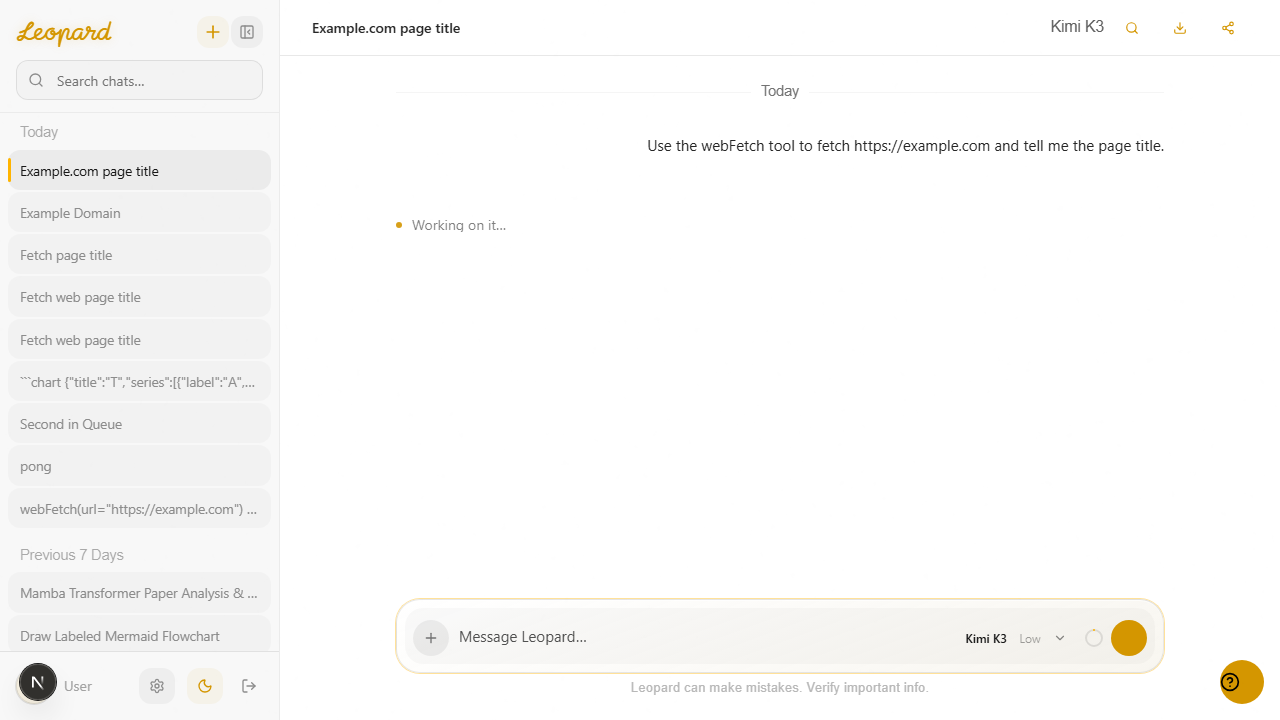
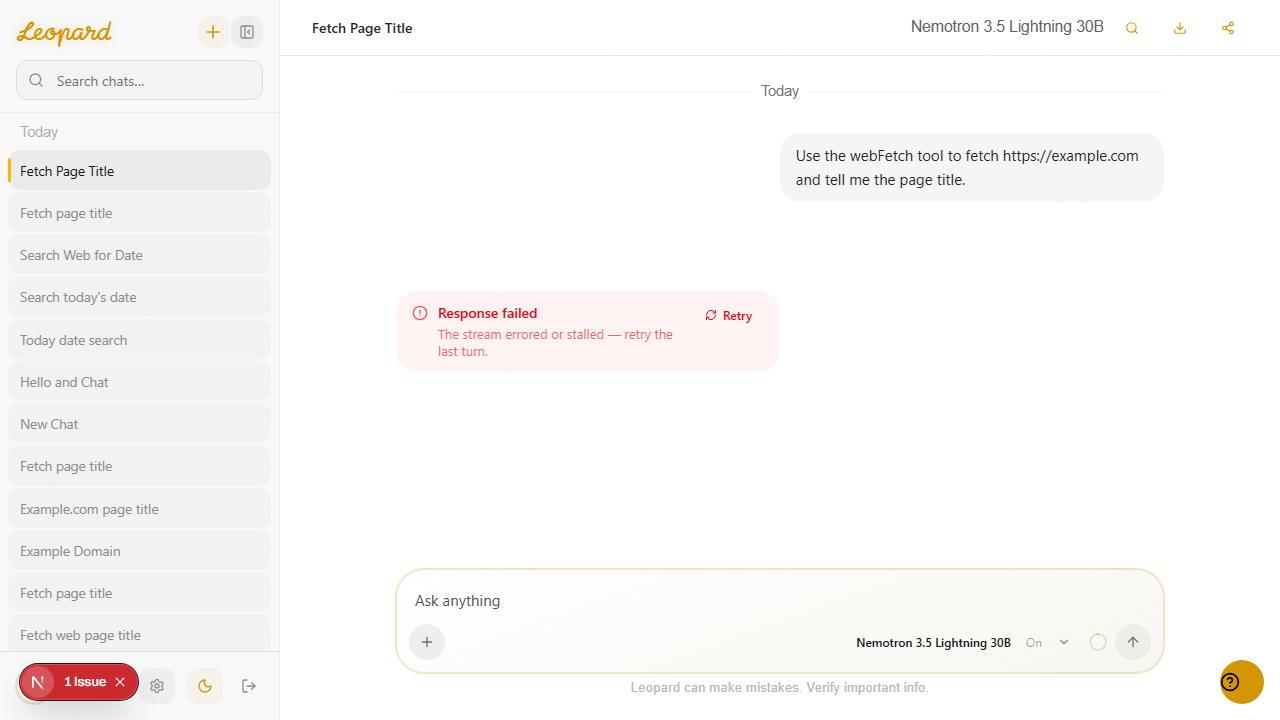
feat(chat): ChatGPT-style composer + suggestion rows; stall watchdog two-phase
- Composer: two-row layout (textarea top, + left / model+context+send right), 28px bar radius
- Empty state: icon suggestion rows under centered composer
- server-generation: stall watchdog two-phase (45s pre-first-chunk, 90s after) —
  hung upstreams now escalate to fallback models in half the time
- scripts: verify-tools, dbg-stream (approval loop), verify-composer-swap

diff --git a/components/chat/leopard/composer.tsx b/components/chat/leopard/composer.tsx
@@ -25,7 +25,7 @@ import {
   PopoverContent,
   PopoverTrigger,
 } from "@/components/ui/popover";
-import { field, ghostButton, inkButton, paper } from "./surfaces";
+import { ghostButton, inkButton, paper } from "./surfaces";
 
 // Leopard fork of the elements-kit composer: ComposerBar/paper shell, floating
 // popovers, icon-swap send, with Leopard wiring (useActiveChat, uploads,
@@ -68,7 +68,7 @@ function ComposerBar({ className, ...props }: ComponentProps<"div">) {
       data-slot="composer-bar"
       className={cn(
         paper,
-        "flex w-full flex-col gap-2 rounded-[24px] p-2 transition-shadow",
+        "flex w-full flex-col gap-1 rounded-[28px] p-1.5 transition-shadow",
         "focus-within:ring-1 focus-within:ring-[#ffb400]/40",
         className,
       )}
@@ -435,24 +435,25 @@ export function Composer({ placement = "bottom" }: { placement?: "bottom" | "cen
             />
           )}
           <ComposerBar>
-            <div className={cn(field, "relative flex items-end gap-1.5 rounded-[18px] px-2 py-2")}>
+            {/* ChatGPT-style: text row on top, control row below. */}
+            <TextareaAutosize
+              ref={textareaRef}
+              value={input}
+              onChange={(e) => { setInput(e.target.value); setDraft(e.target.value); }}
+              onKeyDown={handleKeyDown}
+              placeholder="Ask anything"
+              aria-label="Message"
+              rows={1}
+              minRows={1}
+              maxRows={8}
+              className="min-h-[44px] max-h-[240px] w-full resize-none bg-transparent px-3 pt-3 pb-1 text-[15px] leading-[1.6] outline-none dark:text-[#e5e5e5] light:text-[#262626] placeholder:text-[#505050] caret-[#ffb400]"
+            />
+            <div className="flex items-center justify-between gap-1.5 px-1.5 pb-1.5">
               <ComposerAttachMenu
                 modelVision={modelVision}
                 modelImageEdit={modelImageEdit}
                 onPickMedia={(f) => addFiles(f, "media")}
                 onPickFile={(f) => addFiles(f, "file")}
-              />
-              <TextareaAutosize
-                ref={textareaRef}
-                value={input}
-                onChange={(e) => { setInput(e.target.value); setDraft(e.target.value); }}
-                onKeyDown={handleKeyDown}
-                placeholder="Message Leopard…"
-                aria-label="Message"
-                rows={1}
-                minRows={1}
-                maxRows={8}
-                className="min-h-[36px] max-h-[240px] flex-1 resize-none bg-transparent px-1 py-2 text-[15px] leading-[1.6] outline-none dark:text-[#e5e5e5] light:text-[#262626] placeholder:text-[#505050] caret-[#ffb400]"
               />
               <ComposerActions>
                 <ModelSelector />

diff --git a/components/chat/leopard/suggestions.tsx b/components/chat/leopard/suggestions.tsx
@@ -1,19 +1,8 @@
 "use client";
 
 import { motion } from "framer-motion";
+import { CodeIcon, GlobeIcon, PenLineIcon, SparklesIcon } from "lucide-react";
 import { cn } from "@/lib/utils";
-
-/**
- * Curated prompts shown on the empty thread (no LLM call — static list). These
- * replace the plain greeting subline with actionable starting points; a click
- * fills + sends the prompt through the composer (chat.sendMessage).
- */
-export const EMPTY_SUGGESTIONS = [
-  "Explain a concept",
-  "Write code",
-  "Research a topic",
-  "Draft an email",
-] as const;
 
 /**
  * Follow-up prompts shown after a finished assistant turn (status "ready",
@@ -24,6 +13,41 @@ export const FOLLOW_UP_SUGGESTIONS = [
   "Give an example",
   "Summarize the key points",
 ] as const;
+
+/** ChatGPT-style empty-state rows: icon + action label, one per line. */
+const SUGGESTION_ROWS = [
+  { icon: SparklesIcon, label: "Explain a concept", prompt: "Explain a concept: " },
+  { icon: CodeIcon, label: "Write code", prompt: "Write code that " },
+  { icon: GlobeIcon, label: "Research a topic", prompt: "Research " },
+  { icon: PenLineIcon, label: "Draft an email", prompt: "Draft an email " },
+] as const;
+
+export function SuggestionRows({
+  onSuggestion,
+  className,
+}: {
+  onSuggestion: (prompt: string) => void;
+  className?: string;
+}) {
+  return (
+    <div className={cn("flex w-full max-w-xs flex-col items-stretch gap-0.5", className)}>
+      {SUGGESTION_ROWS.map(({ icon: Icon, label, prompt }, index) => (
+        <motion.button
+          key={label}
+          type="button"
+          initial={{ opacity: 0, y: 4 }}
+          animate={{ opacity: 1, y: 0 }}
+          transition={{ duration: 0.18, delay: index * 0.05 }}
+          onClick={() => onSuggestion(prompt)}
+          className="group flex items-center gap-3 rounded-lg px-3 py-2 text-left text-[13.5px] transition-colors dark:text-[#a3a3a3] light:text-[#525252] hover:dark:bg-white/[0.05] hover:light:bg-black/[0.04] hover:dark:text-white hover:light:text-black active:scale-[0.99]"
+        >
+          <Icon className="size-4 shrink-0 dark:text-[#737373] light:text-[#8a8a8a] transition-colors group-hover:dark:text-[#ffb400] group-hover:light:text-[#d49600]" />
+          {label}
+        </motion.button>
+      ))}
+    </div>
+  );
+}
 
 export interface SuggestionsProps {
   suggestions: readonly string[];

diff --git a/lib/ai/server-generation.ts b/lib/ai/server-generation.ts
@@ -748,29 +748,35 @@ export function backgroundServe(args: {
       // chunk-gap over LEOPARD_STALL_MS (default 18s) ends the attempt as a
       // stall error → the retry loop escalates to the next fallback model when
       // nothing committed yet, or keeps the partial when it has.
-      // Reasoning models think silently before the first chunk — 18s killed
-      // them mid-thought. 90s with reasoning on, 45s otherwise.
+      // Two-phase stall budget: a healthy model starts chunking within ~10s,
+      // so a silent OPEN is almost certainly a hung upstream — kill at 45s.
+      // Once chunks flow, gaps between them (long reasoning, tool waits) get
+      // the wider 90s window.
+      const STALL_OPEN_MS = Math.max(4_000, Number(process.env.LEOPARD_STALL_OPEN_MS ?? 45_000) || 45_000);
       const STALL_MS = Math.max(
         4_000,
         Number(process.env.LEOPARD_STALL_MS ?? (sendReasoning ? 90_000 : 45_000)) ||
           (sendReasoning ? 90_000 : 45_000),
       );
+      let sawChunk = false;
       const it = merged[Symbol.asyncIterator]();
       try {
         for (;;) {
           let stall: ReturnType<typeof setTimeout> | undefined;
+          const budget = sawChunk ? STALL_MS : STALL_OPEN_MS;
           const next = await Promise.race([
             it.next(),
             new Promise<never>((_, rej) => {
               stall = setTimeout(
-                () => rej(new Error(`stall: no chunk for ${STALL_MS}ms`)),
-                STALL_MS,
+                () => rej(new Error(`stall: no chunk for ${budget}ms`)),
+                budget,
               );
             }),
           ]).finally(() => {
             if (stall) clearTimeout(stall);
           });
           if (next.done) break;
+          sawChunk = true;
           const chunk = next.value;
           acc.push(chunk);
           emit(chunk);

diff --git a/components/chat/messages.tsx b/components/chat/messages.tsx
@@ -5,7 +5,7 @@ import { motion } from "framer-motion";
 import { useActiveChat } from "@/hooks/use-active-chat";
 import { PreviewMessage, ThinkingMessage } from "./message";
 import { MouseGlow } from "@/components/ui/mouse-glow";
-import { EMPTY_SUGGESTIONS, Suggestions } from "./leopard/suggestions";
+import { SuggestionRows } from "./leopard/suggestions";
 import {
   EmptyState,
   EmptyStateGreeting,
@@ -309,9 +309,7 @@ function Greeting() {
             <Composer placement="center" />
           </div>
           <EmptyStateSuggestions className="mt-5">
-            <Suggestions
-              suggestions={EMPTY_SUGGESTIONS}
-              label="Suggested first prompts"
+            <SuggestionRows
               onSuggestion={(text) => {
                 void sendMessage({ parts: [{ type: "text", text }] } as never);
               }}
